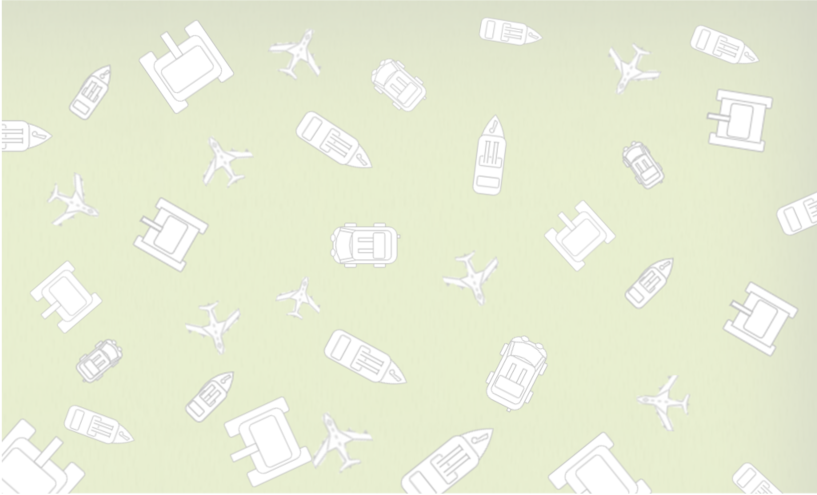
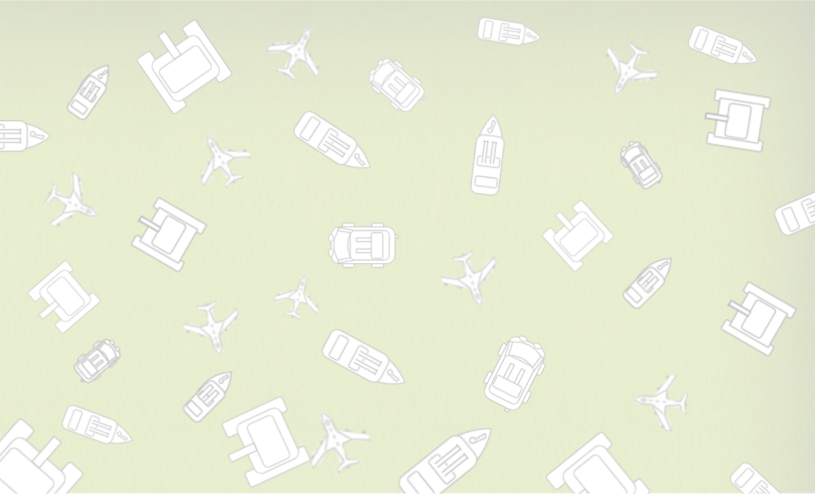
劉晉豪
修正背景圖問題

diff --git a/public/css/main.css b/public/css/main.css
@@ -22,7 +22,7 @@ body {
   overflow: auto;
 }
 .center{
-  width: 60%;
+  width: 80%;
   height: 90%;
   line-height: 90%;
   position: relative;
@@ -35,15 +35,17 @@ body {
   left: 0;
 }
 .centerBlockly{
-  background-image: url('../img/blockMapBk.png');
-  background-repeat: no-repeat;
-  background-position:center;
-  background-attachment:fixed;
-  background-size: 80% 100%;
   width: 80%;
   height: 90%;
   line-height: 90%;
   position: relative;
+  min-width: 900px;
+}
+.centerBlockly #bkImg{
+  height: 100%;
+  width: 100%;
+  position: absolute;
+  left: 0;
 }
 .centerMidMap{
   background-image: url('../img/midMapBk.png');
